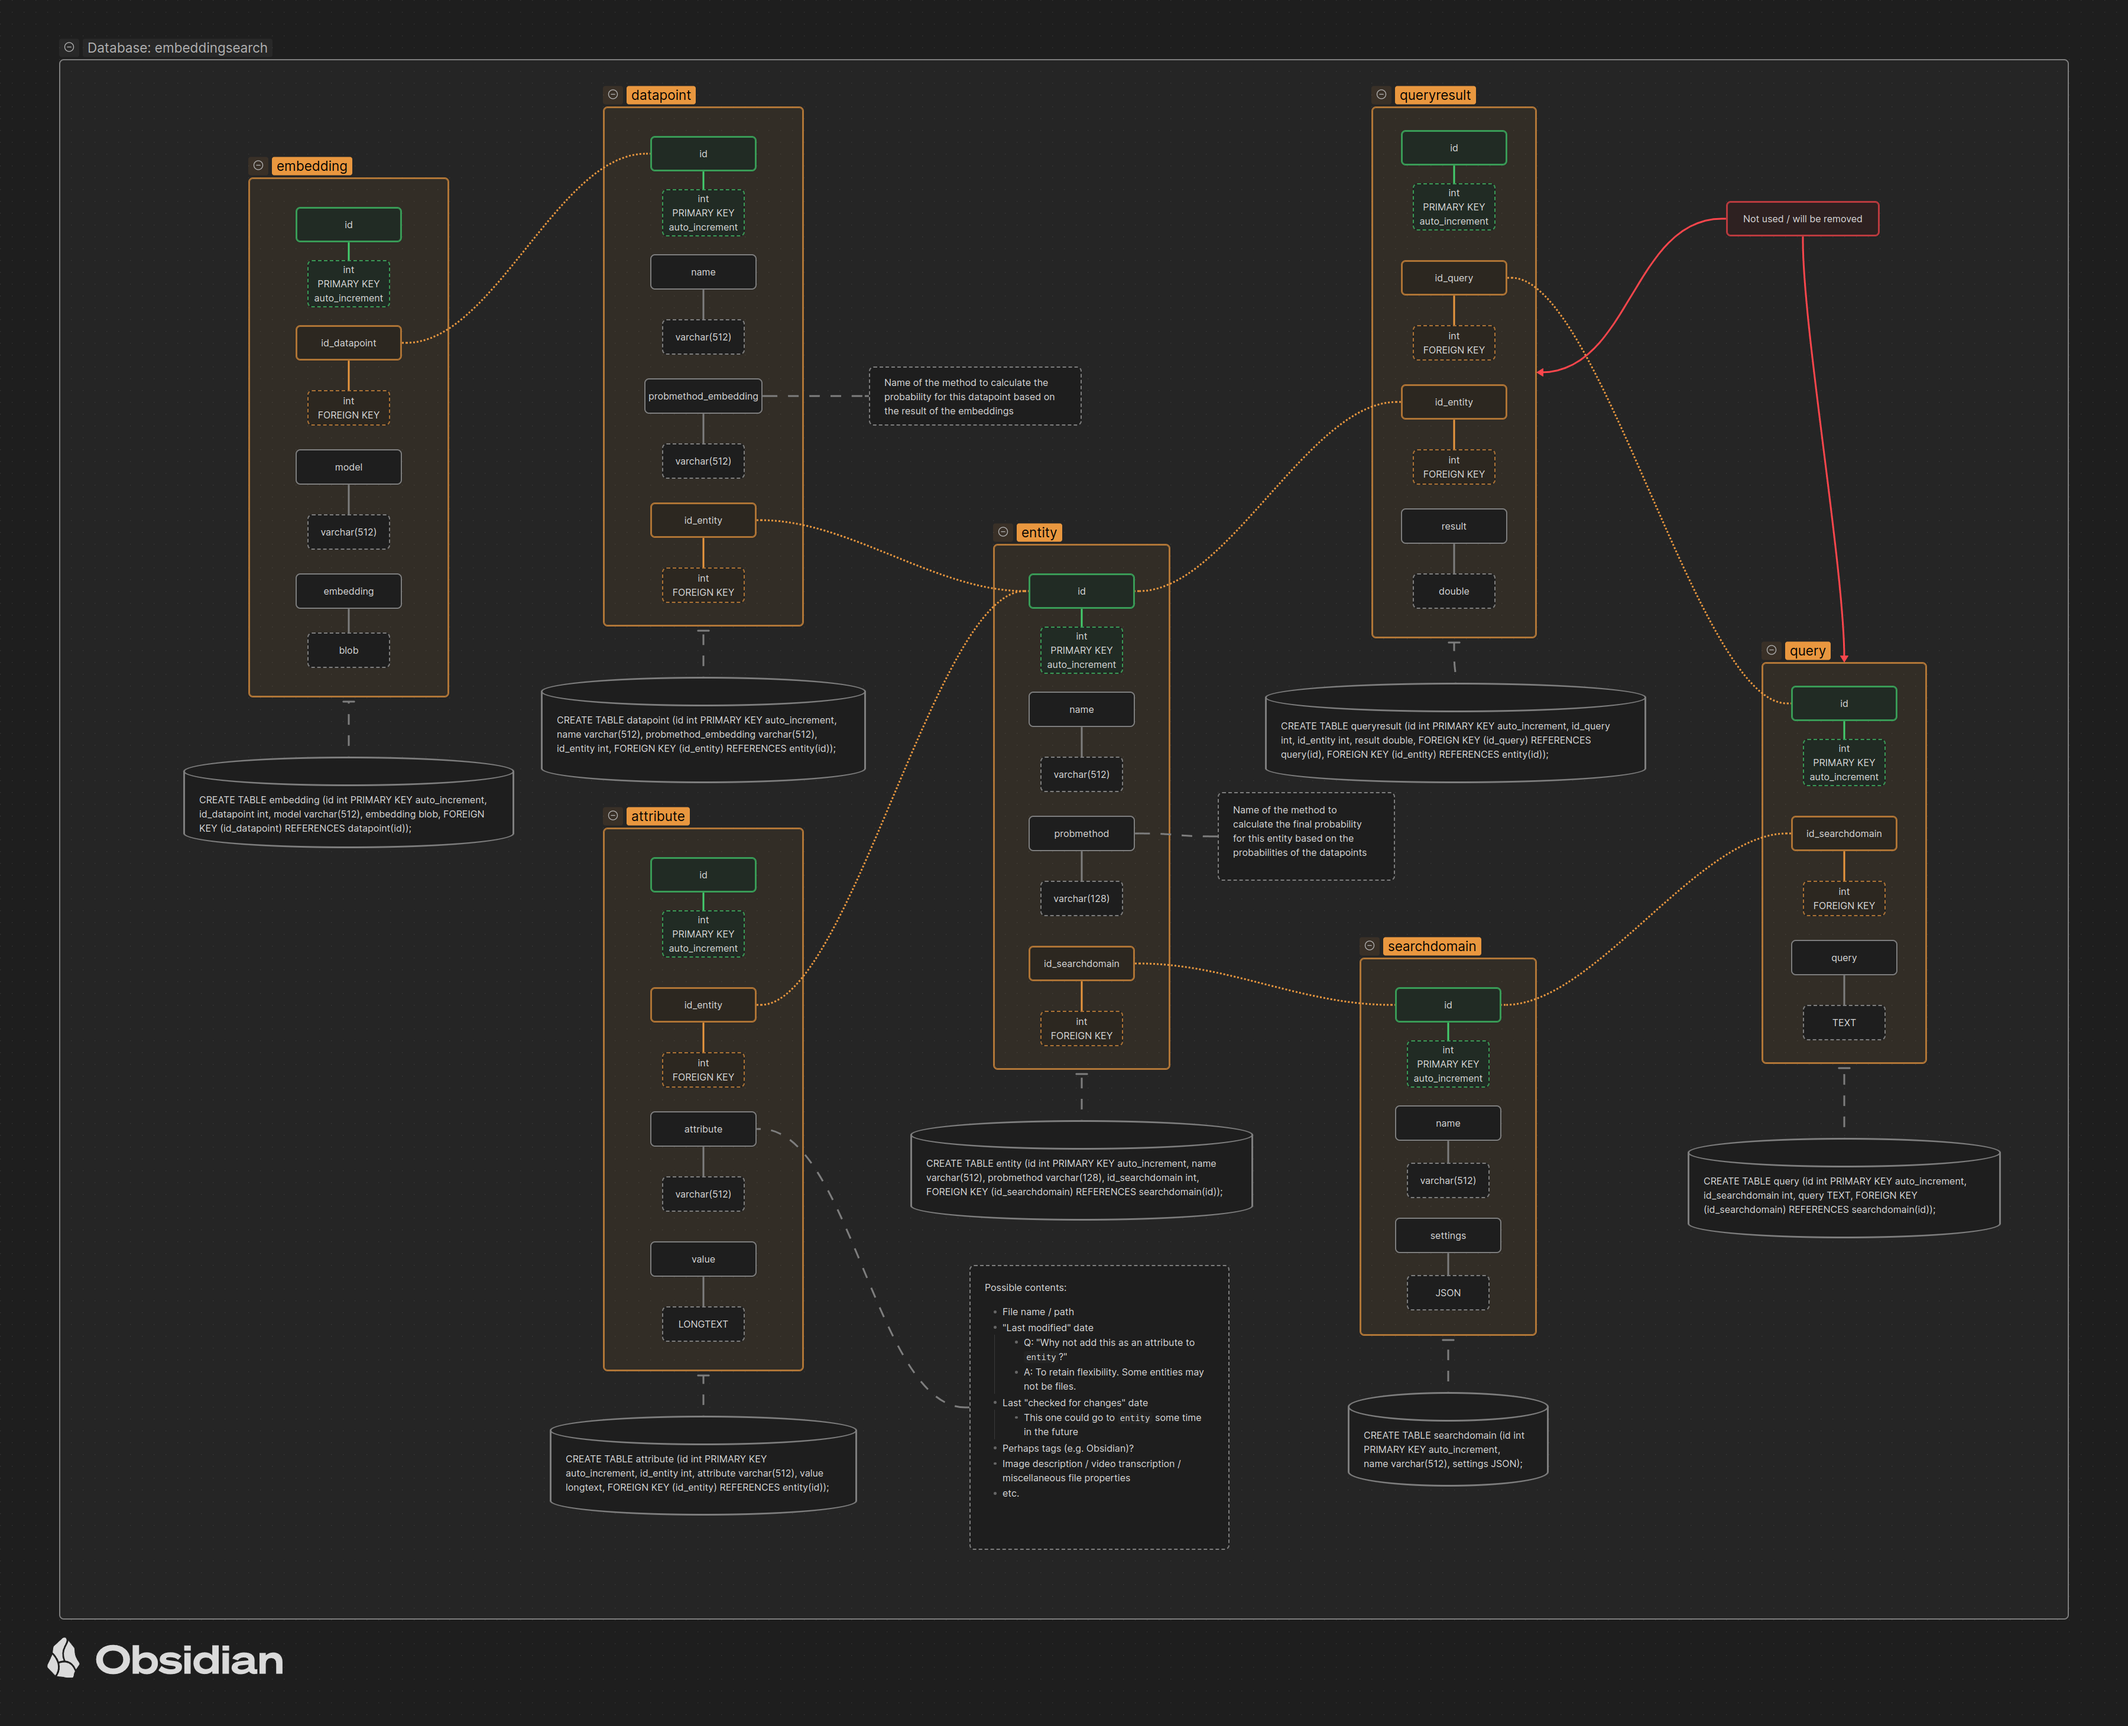
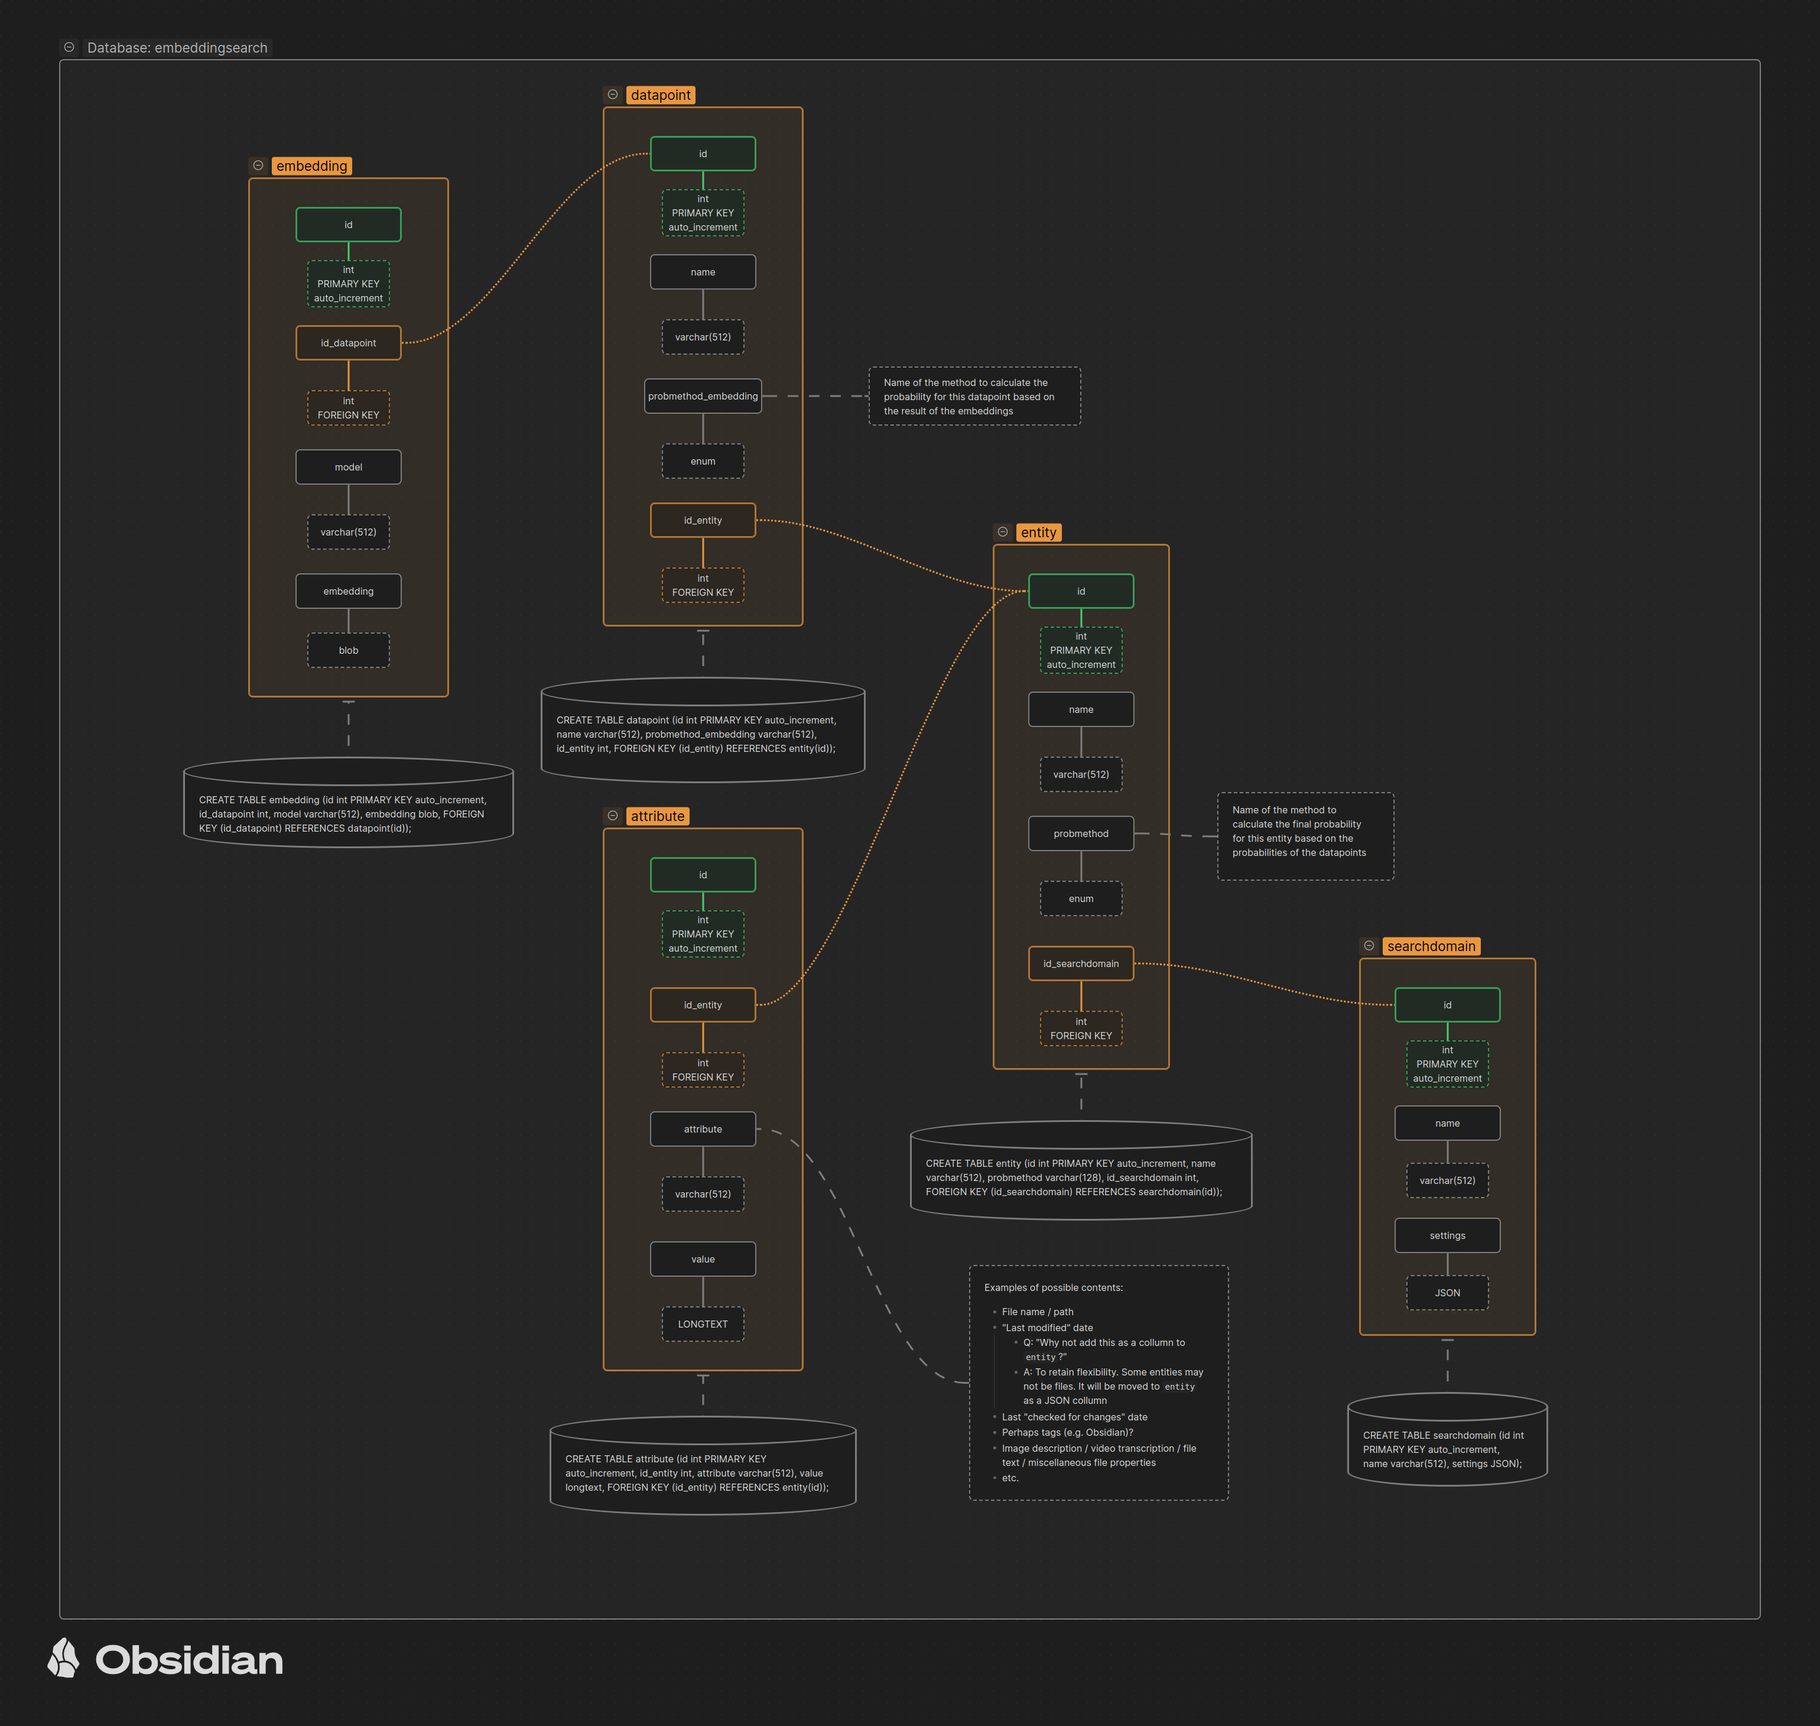
Updated README and database diagram

diff --git a/README.md b/README.md
@@ -1,5 +1,4 @@
 # embeddingsearch
-**This is still highly work-in-progress**
 
 Embeddingsearch is a DotNet C# library that uses Embedding Similarity Search (similiarly to [Magna](https://github.com/yousef-rafat/Magna/tree/main)) to semantically compare a given input to a database of pre-processed entries.
 
@@ -122,11 +121,15 @@ Lists all entities in that domain (together with its attributes and datapoints a
 Deletes the entity specified by `$entity_name`.
 
 # Known issues
-| Issue | Solution
-| --- | ---
-| Failed to load /usr/lib/dotnet/host/fxr/8.0.15/libhostfxr.so, error: /snap/core20/current/lib/x86_64-linux-gnu/libstdc++.so.6: version `GLIBCXX_3.4.29' not found (required by /usr/lib/dotnet/host/fxr/8.0.15/libhostfxr.so) | You likely installed dotnet via snap. Try using `/usr/bin/dotnet` instead of `dotnet`.
+| Issue | Solution |
+| --- | --- |
+| Failed to load /usr/lib/dotnet/host/fxr/8.0.15/libhostfxr.so, error: /snap/core20/current/lib/x86_64-linux-gnu/libstdc++.so.6: version `GLIBCXX_3.4.29' not found (required by /usr/lib/dotnet/host/fxr/8.0.15/libhostfxr.so) | You likely installed dotnet via snap. Try using `/usr/bin/dotnet` instead of `dotnet`. |
+| Unhandled exception. MySql.Data.MySqlClient.MySqlException (0x80004005): Invalid attempt to access a field before calling Read() | The searchdomain you entered does not exist |
 
 # To-do
+- Rename `cli` to something unique but still short, e.g. `escli`?
+- Improve error messaging for when retrieving a searchdomain fails.
+- Remove the `id` collumns from the database tables where the table is actually identified (and should be unique by) the name, which should become the new primary key.
 - Implement the api server
 - Improve performance & latency (Create ready-to-go processes where each contain an n'th share of the entity cache, ready to perform a query. Prepare it after creating the entity cache.)
 - Write a Linux installer for the CLI tool
